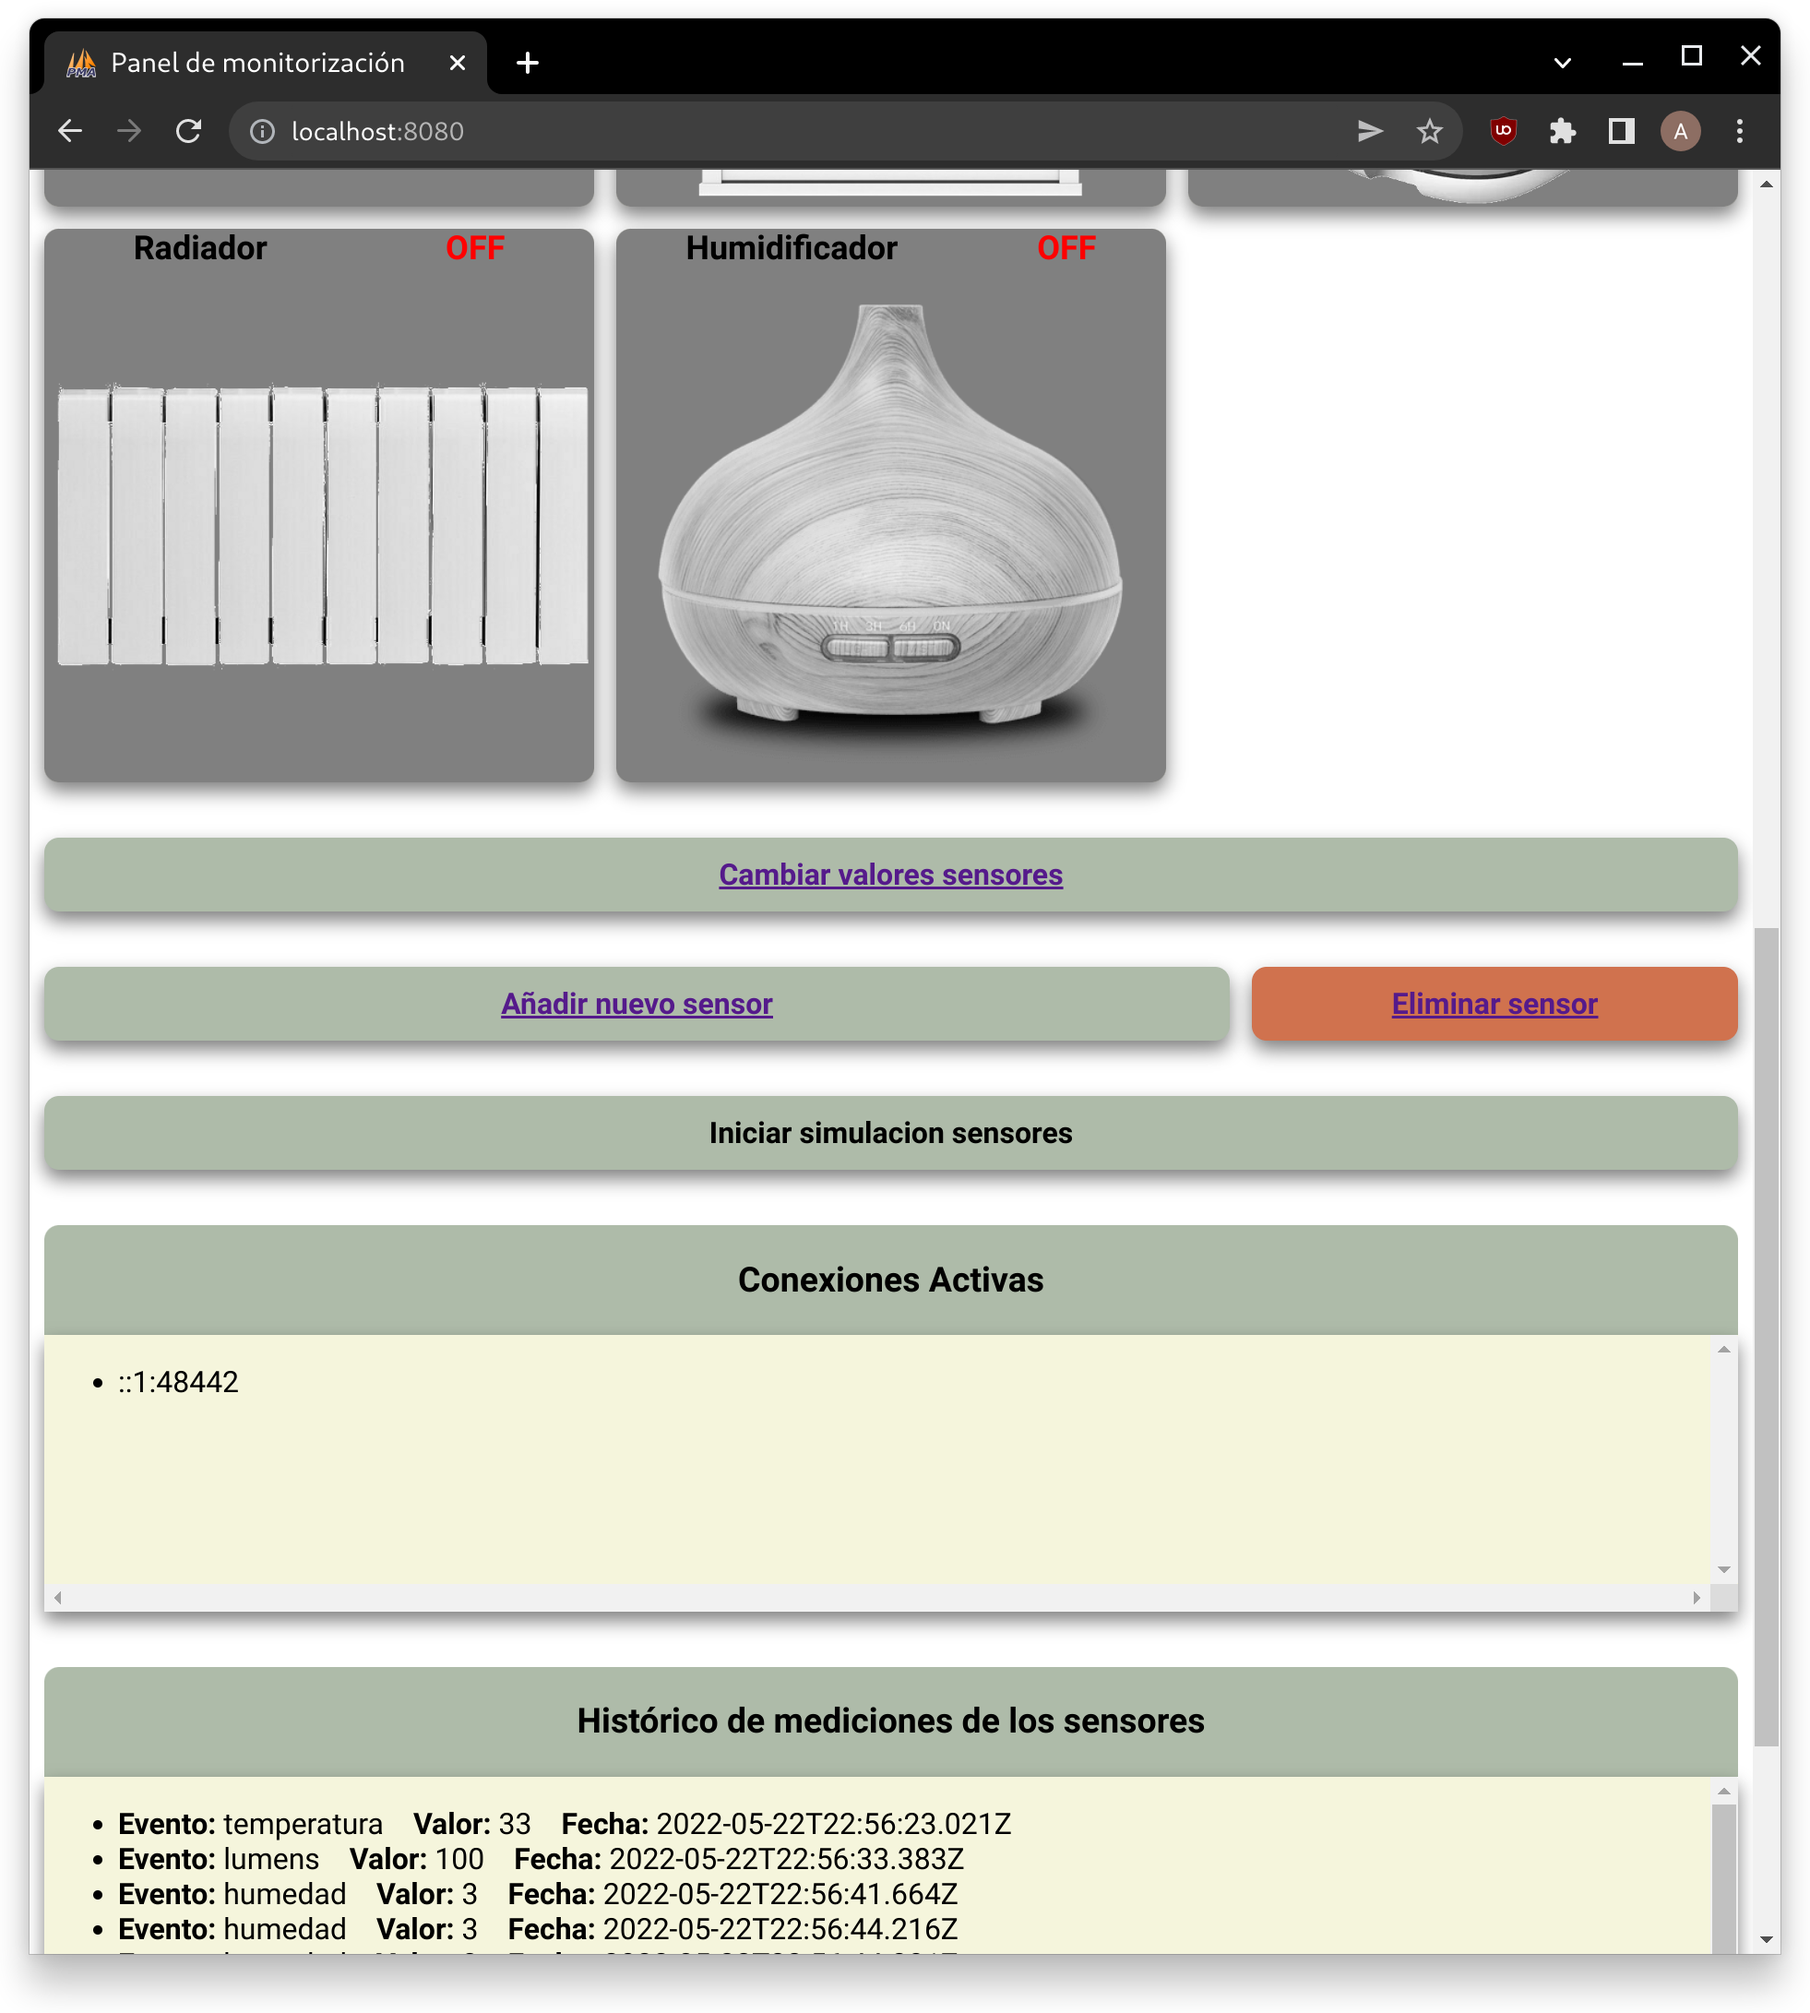
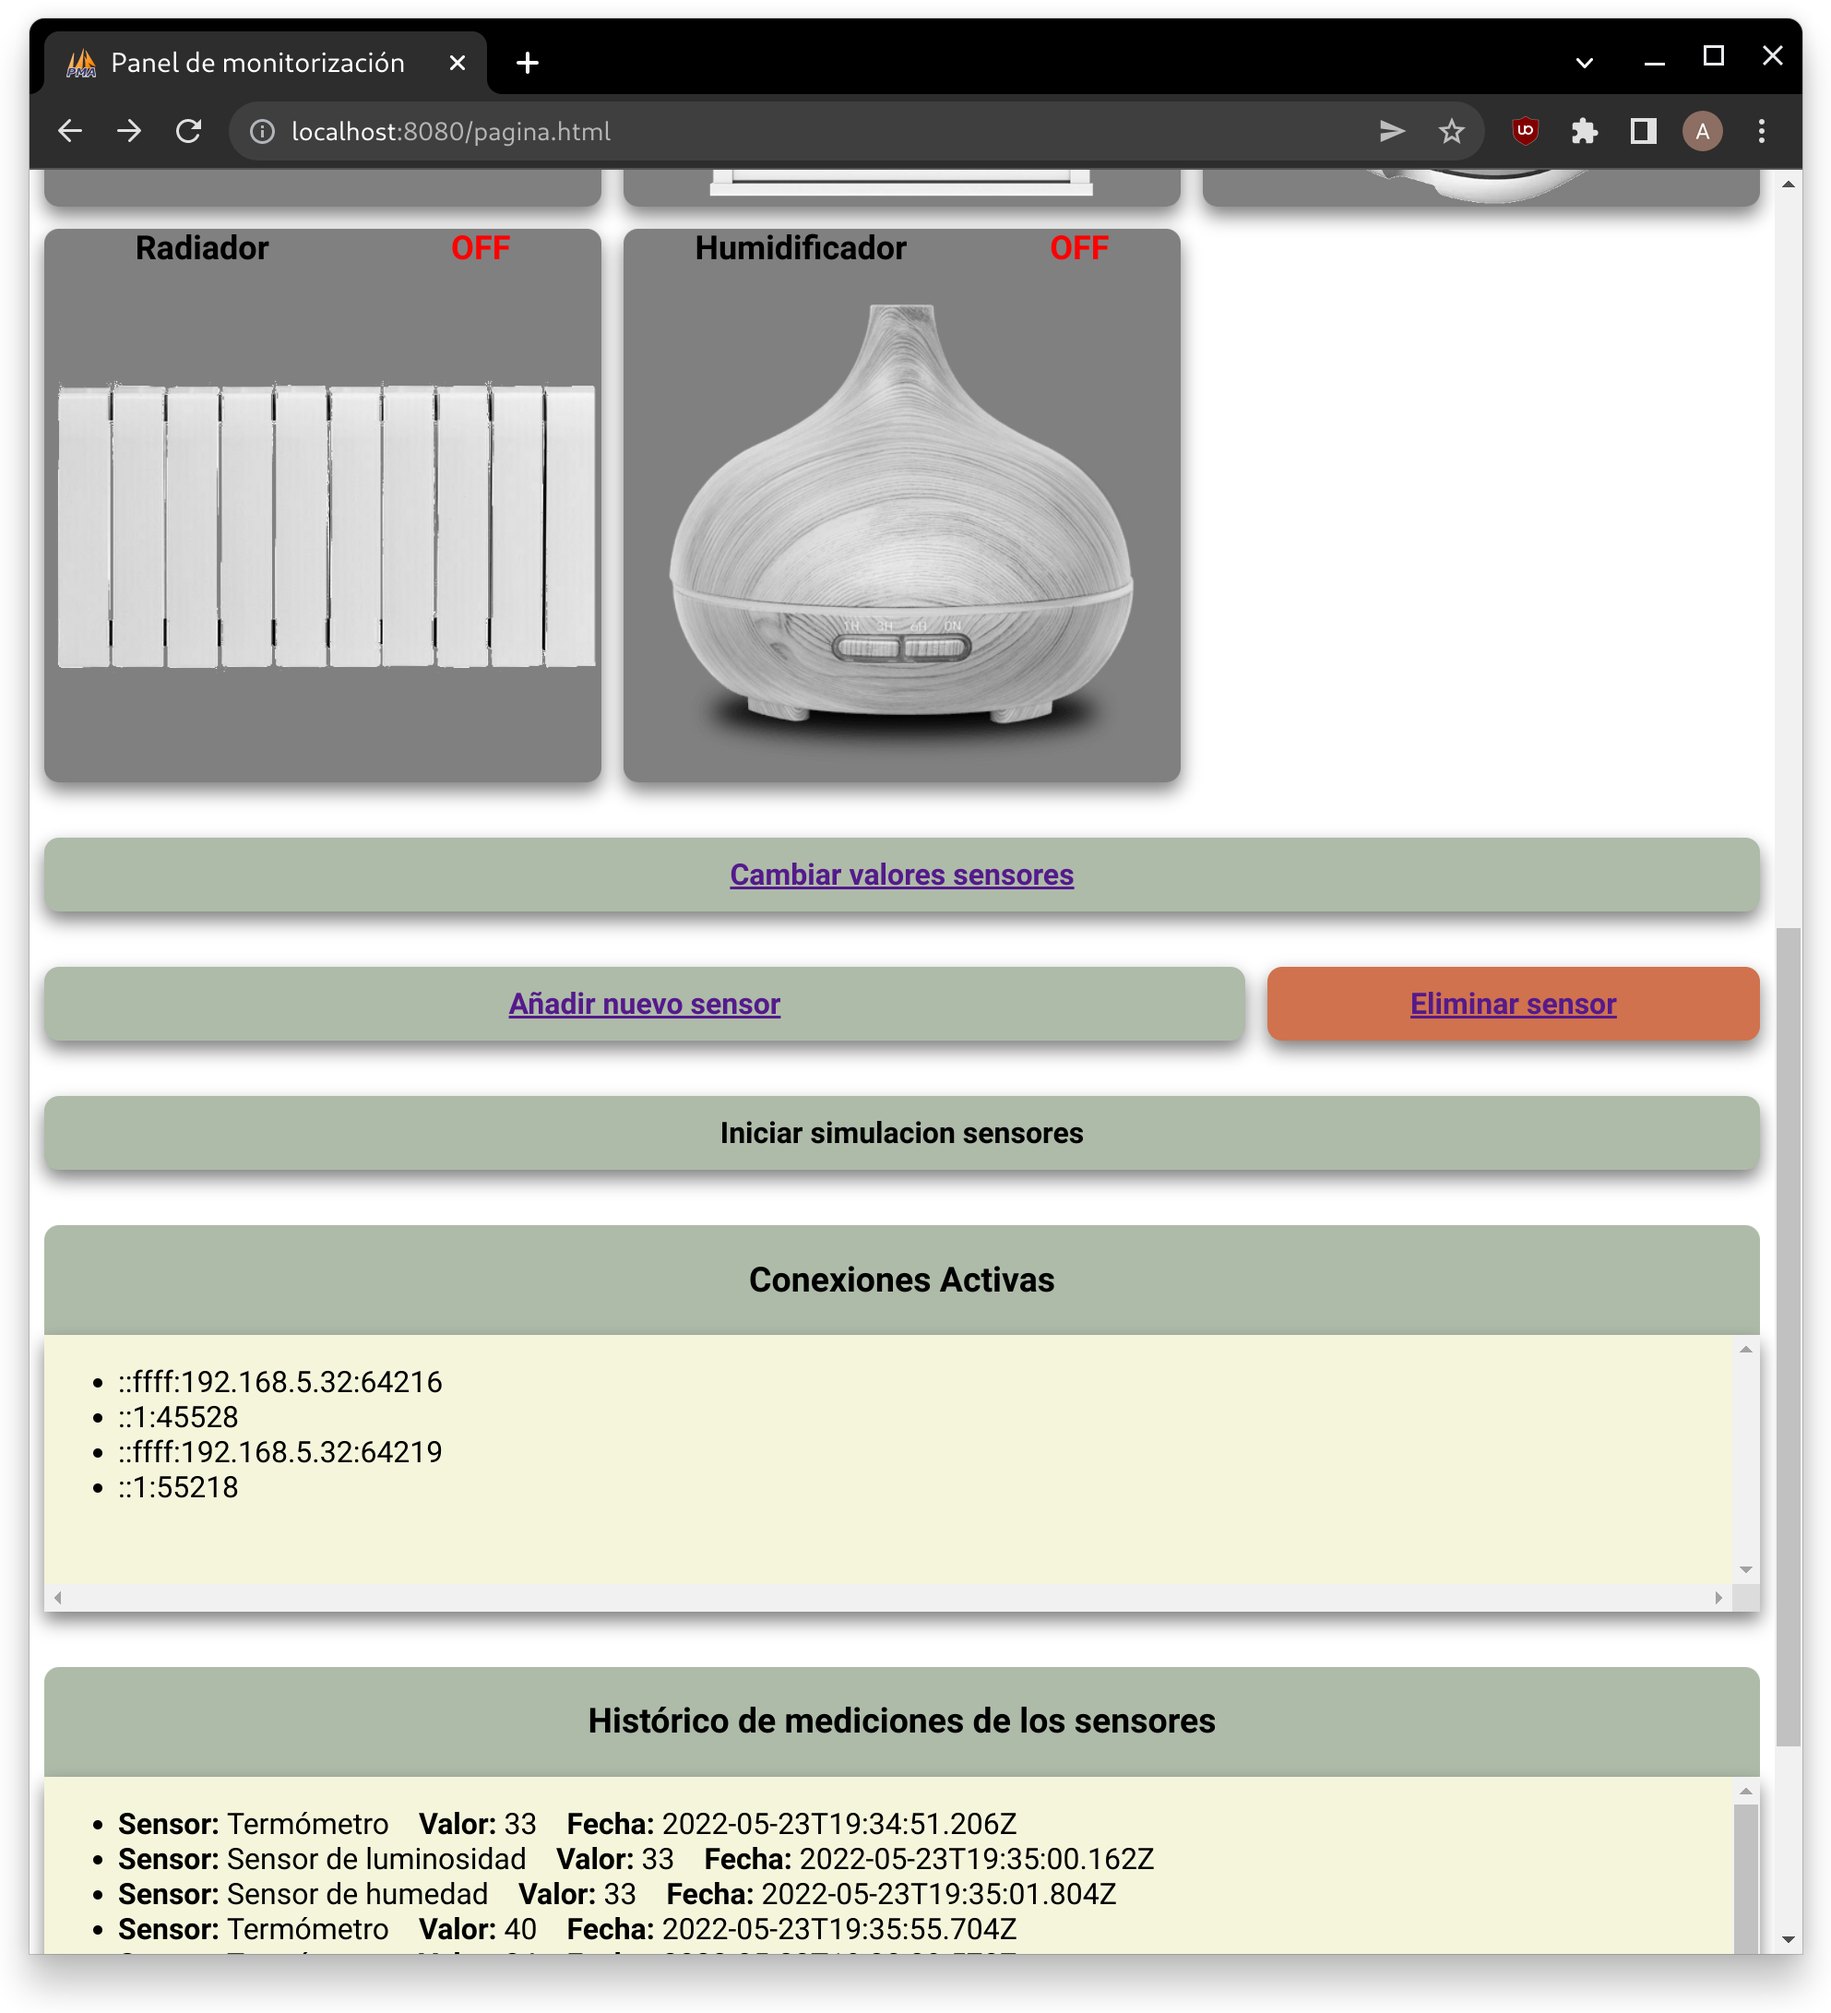
Algunos fallos arreglados

diff --git a/P4/Domotica/servidor.js b/P4/Domotica/servidor.js
@@ -290,8 +290,7 @@ MongoClient.connect("mongodb://localhost:27017/", {useUnifiedTopology: true}, fu
 				//Si antes estaban los dos accionados, habia una alerta, por lo que se debe eliminar
 				if(alertas.find(i=>i.name=="tip")!=undefined){
 					let index=alertas.findIndex(i=>i.name=="tip");
-					alertas.splice(index, 1);
-					//io.emit("alerta", alertas);					
+					alertas.splice(index, 1);					
 					hayAlertaCambio=true;
 				}
 			}
@@ -307,7 +306,6 @@ MongoClient.connect("mongodb://localhost:27017/", {useUnifiedTopology: true}, fu
 				if(alertas.find(i=>i.name=="tip4")!=undefined){
 					let index=alertas.findIndex(i=>i.name=="tip4");
 					alertas.splice(index, 1);
-					//io.emit("alerta", alertas);		
 					hayAlertaCambio=true;			
 				}				
 			}
@@ -593,12 +591,25 @@ MongoClient.connect("mongodb://localhost:27017/", {useUnifiedTopology: true}, fu
 		 * Evento que capta cuando se realiza un cambio en un actuador. Ademas comprueba 
 		 * si se ha producido alguna alerta.
 		 */
+/*
 		client.on("cambio-actuador", (data)=>{
 			let index=actuadores.findIndex(i=>i.id==data.id);
 
 			actuadores.splice(index, 1, data);
 
 			io.emit("cambio-actuador", data);
+
+			comprobarActuador();
+		});
+*/
+		/**
+		 * Cambia el estado del actuador y lo retransmite a todos los clientes
+		 */
+		client.on("toggle-actuador-id", (data)=>{
+			let i=actuadores.findIndex(i=>i.id==data);
+			actuadores[i].state=(actuadores[i].state)? false : true;
+
+			io.emit("cambio-actuador", actuadores[i]);
 
 			comprobarActuador();
 		});

diff --git a/P4/Domotica/static/js/pagina.js b/P4/Domotica/static/js/pagina.js
@@ -128,7 +128,7 @@ socket.on("nuevo-registro", (data)=>{
     let historial=document.getElementById("lista-historial");
 
     historial.insertAdjacentHTML("beforeend",
-    "<li><strong>Evento: </strong> "+data.evento+"&emsp;<strong>Valor:</strong> "+data.valor+"&emsp;<strong>Fecha:</strong> "+data.fecha+"</li>"
+    "<li><strong>Sensor: </strong> "+data.evento+"&emsp;<strong>Valor:</strong> "+data.valor+"&emsp;<strong>Fecha:</strong> "+data.fecha+"</li>"
     );
 })
 
@@ -207,12 +207,13 @@ socket.on("obtener-actuadores", (data)=>{
 
     for(let i=0; i<actuadores.length; i++){
         actuadores[i].addEventListener("click", ()=>{
-            data[i].state=(data[i].state)? false : true;
-            socket.emit("cambio-actuador", data[i]);            
+            //Esto es necesario hacerlo asi, ya que si usamos data puede llegar a
+            //tener valores desactualizados
+            socket.emit("toggle-actuador-id", data[i].id);
         });
     }    
 
-})
+});
 
 /**
  * Cambia el estilo del actuador pasado por parametro

diff --git a/P4/memoria/plantilla.tex b/P4/memoria/plantilla.tex
@@ -351,7 +351,7 @@ La interfaz web he intentado que sea más o menos consistente en términos de co
     \includegraphics[width=0.7\textwidth]{images/pagina3.png}
 \end{figure}
 
-Como se puede ver, tiene otro sensor más y 3 actuadores más. Esto forma parte del extra, que explicaré más adelante. Además, si se pulsa en un actuador, este se activa o desactiva, reflejándose el cambio en los demás clientes conectados y en los que se van a conectar.
+Como se puede ver, tiene otro sensor más y 3 actuadores más. Esto forma parte del extra, que explicaré más adelante. Además, si se pulsa en un actuador, este se activa o desactiva, reflejándose el cambio en los demás clientes conectados y en los que se van a conectar. Esto se consigue con el evento ``toggle-actuador-id'', que con el id del actuador cambia el estado del mismo en el servidor. Una vez hecho eso, mediante el evento ``cambio-actuador'' actualiza el recuadro de la interfaz web.
 
 \begin{figure}[H]
     \centering
@@ -470,6 +470,7 @@ Los eventos que se usan para la página principal son los siguientes:
     \item \textbf{alerta: }Actualiza las alertas actuales. Cabe destacar que este evento no se puede hacer más eficiente (es decir, mandando solo la información necesaria como pasaba con el historial de registros de la base de datos), ya que pueden eliminarse valores intermedios del array en el servidor.
     \item \textbf{obtener-actuadores: }Al igual que ``obtener-sensores'', sirve para obtener todos los actuadores disponibles en la página (cliente).
     \item \textbf{cambio-actuador: }Actualiza el estado del actuador cuando otro cliente lo activa/desactiva.
+    \item \textbf{toggle-actuador-id: }Sirve para que el cliente alterne el estado del actuador con id pasada como parámetro. En el lado del servidor al recibirlo cambia el estado, lo retransmite a todos y comprueba si hay alguna alerta nueva.
 \end{itemize}
 
 No están explicados todos, ya que los demás son extra y los explicaré en la siguiente subsección.
